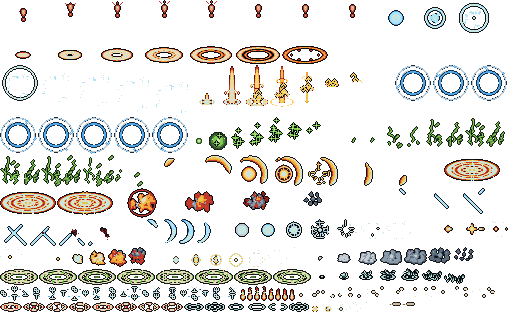
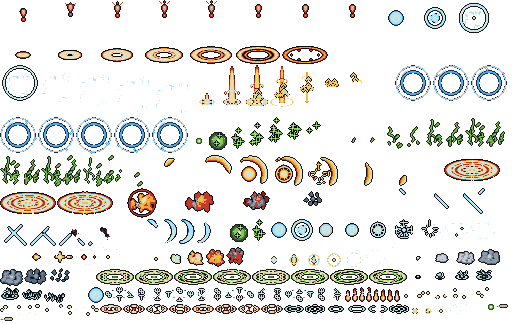
feat(hunt-vfx): wand and staff basic attacks get a bolt and a hit
HIT_FX.role mage/healer -> fx_wand_bolt_impact / fx_staff_bolt_impact (rendered today).
PROJECTILE gains ability/role tables; scene.js reads them next (handoff).
Art cut from sim style-1 frames (port-hunt-sim.mjs DERIVED_VFX); vfx atlas rebuilt.

Claude-Session: https://claude.ai/code/session_01KCNqj48KWbqk83YvGfzVu1

diff --git a/src/data/hunt-vfx.js b/src/data/hunt-vfx.js
@@ -15,7 +15,7 @@
 //              lifeMs  how long a LOOPING effect shows (a one-shot plays its frames once)
 // HIT_FX     the effect on the target of a `dmg`: by ability, else by element, else
 //            by the attacker's role (a monster's bite is the `monster` row).
-// PROJECTILE what flies from the attacker before that hit lands (ranged roles).
+// PROJECTILE what flies from the attacker before that hit lands: by ability, else by role.
 // CAST_FX    the effect on the caster of a `cast`: by ability, else by role.
 //
 // A new effect is a row here plus its port; nothing else changes.
@@ -56,12 +56,28 @@ export const HIT_FX = Object.freeze({
     fireball: 'fx_fire_rune_burst', frost_lance: 'fx_frost_lance_shatter', natures_wrath: 'fx_natures_wrath',
   }),
   element: Object.freeze({ fire: 'fx_flame_volley_puff', frost: 'fx_frost_lance_shatter', nature: 'fx_natures_wrath' }),
-  role: Object.freeze({ tank: 'fx_melee_slash', melee_dps: 'fx_melee_slash', ranger: 'fx_crossbow_bolt_impact', mage: null, healer: null, monster: 'fx_melee_slash' }),
+  role: Object.freeze({
+    tank: 'fx_melee_slash', melee_dps: 'fx_melee_slash', ranger: 'fx_crossbow_bolt_impact',
+    mage: 'fx_wand_bolt_impact', healer: 'fx_staff_bolt_impact', monster: 'fx_melee_slash',
+  }),
   lift: CHEST,
 });
 
-/* A bolt flies `flightMs` from the shooter to the target; the hit, its number and its flash land then. */
-export const PROJECTILE = row({ fx: 'fx_crossbow_bolt_projectile', roles: Object.freeze(['ranger']), flightMs: 220, lift: CHEST });
+/* What flies `flightMs` from the shooter to the target before a `dmg` lands (the hit, its number and
+   its flash land on arrival): by ability (null: it strikes where it stands), else by the attacker's
+   role (a role not listed strikes in place). A basic hit carries no element today (no weapon binds
+   one), so a caster's bolt is its weapon's: the wand's frost-blue orb, the staff's green mote. Area
+   spells land where they are aimed; their burst is the hit. */
+const BOLT = Object.freeze({ ranger: 'fx_crossbow_bolt_projectile', mage: 'fx_wand_bolt', healer: 'fx_staff_bolt' });
+export const PROJECTILE = Object.freeze({
+  ability: Object.freeze({ cleave: null, fireball: null, natures_wrath: null }),
+  role: BOLT,
+  flightMs: 220,
+  lift: CHEST,
+  /* What src/hunt-view/scene.js reads today (one bolt, rangers only); dropped when it reads `ability`/`role`. */
+  fx: BOLT.ranger,
+  roles: Object.freeze(['ranger']),
+});
 
 export const CAST_FX = Object.freeze({
   ability: Object.freeze({ circle_of_renewal: row({ fx: 'fx_circle_of_renewal', lift: FEET, lifeMs: 1400 }) }),
@@ -82,7 +98,7 @@ export function effectIds() {
   const add = (r) => { if (r && r.fx) out.add(r.fx); };
   Object.values(EVENT_FX).forEach(add);
   add(LOOT_FX); add(PROJECTILE);
-  for (const t of [HIT_FX.ability, HIT_FX.element, HIT_FX.role]) for (const v of Object.values(t)) if (v) out.add(v);
+  for (const t of [HIT_FX.ability, HIT_FX.element, HIT_FX.role, PROJECTILE.ability, PROJECTILE.role]) for (const v of Object.values(t)) if (v) out.add(v);
   Object.values(CAST_FX.ability).forEach(add);
   Object.values(CAST_FX.role).forEach(add);
   return Array.from(out).sort();

diff --git a/.claude/coordination/HANDOFFS.md b/.claude/coordination/HANDOFFS.md
@@ -3368,3 +3368,21 @@ props on the map (they block a step client-side; the server grid ignores props, 
 gen-catalogues (10 monsters; hunterAll 119 -> 129 in SQL), then pack-edge (the edge imports the maps and grounds).
 (5) terrain.js OPEN_CLASSES gains 'span': the Sewer's grate bridge was sealing its own 1-tile choke in the client
 mask (sewer maskHash ad6e51f5 -> cb4d8232); the server grid never saw props, so no server behaviour moved.
+
+## 2026-10-19 · art-director -> live-engine lane (src/hunt-view/**) · caster bolts are data now (lane/a-caster-vfx)
+src/data/hunt-vfx.js PROJECTILE is { ability, role, flightMs, lift }: a `dmg` flies PROJECTILE.ability[ev.ability]
+when the key is present (null = strikes in place: cleave, fireball, natures_wrath), else PROJECTILE.role[role]
+(ranger crossbow bolt, mage fx_wand_bolt, healer fx_staff_bolt). scene.js:128 and :132 still read the old single
+bolt (`PROJECTILE.roles`, `PROJECTILE.fx`), kept as two transitional fields so nothing breaks. Change scene.js:128 to
+`const bolt = Object.hasOwn(PROJECTILE.ability, ev.ability) ? PROJECTILE.ability[ev.ability] : PROJECTILE.role[role] || null;
+const flies = !!bolt;` and :132 `addFx(PROJECTILE.fx, …` to `addFx(bolt, …`, then delete `fx`/`roles` from PROJECTILE
+(the hard-coded 'cleave' goes with it). Proven in a scratch copy: hunt-scene green with both bolts drawn.
+HIT_FX.role mage/healer already render today (scene.js:134). Open: an area spell fires one dmg per target, so a
+flying area spell would draw N bolts; the sim flew one to the centre.
+
+## 2026-10-19 · art-director -> asset-director · purpose-made caster bolts (lane/a-caster-vfx)
+fx_wand_bolt(+_impact) and fx_staff_bolt(+_impact) are CUT from the sim's frost_lance_shatter and nature_heal_motes
+frames (tools/world-art/port-hunt-sim.mjs DERIVED_VFX): honest style-1 pixels, no redraw. When PixelLab spend is
+approved, generate purpose bolts: a smaller wand bolt (the 16 px orb is heavy beside the 13x4 crossbow bolt), a staff
+impact without the heal's "+" sparkles, and the arcane ramp (ART_DIRECTION §8) so the wand stops borrowing frost blue.
+Per-element bolts (ember/frost/poison) wait on a weapon element; note core says ember/poison, abilities say fire/nature.

diff --git a/.claude/coordination/agents/art-director.md b/.claude/coordination/agents/art-director.md
@@ -2932,3 +2932,10 @@ the token. (3) Alegreya's default old-style figures make a HUD of numbers look s
 upper-left and lit lower-right inset edge. (5) Widget min widths (hud-widgets.js min) beat content shrinking;
 right-align the bar inside its box instead. Open, needs art: the hearth emblem is a CSS circle (wants a pixel
 medallion from the iron ramp).
+
+## 2026-10-19 — lane/a-caster-vfx: wand and staff basic attacks get a bolt and a hit
+Lessons: (1) the style-1 guard rejects hand-drawn art by design, so "port the sim's bolts" was impossible as asked:
+the sim drew them in canvas code. Cutting frames of a shipped style-1 effect (DERIVED_VFX) keeps provenance honest.
+(2) In-world "arcane" is frost blue: the palette has no arcane ramp, so the sorcerer's runes lock to frost. (3) A data
+row the renderer ignores is not a fix; HIT_FX.role is read today, PROJECTILE.role waits on scene.js (handoff).
+(4) Basic attacks are the most frequent effect in the game: the impacts run 2 frames at 16 fps (125 ms).
